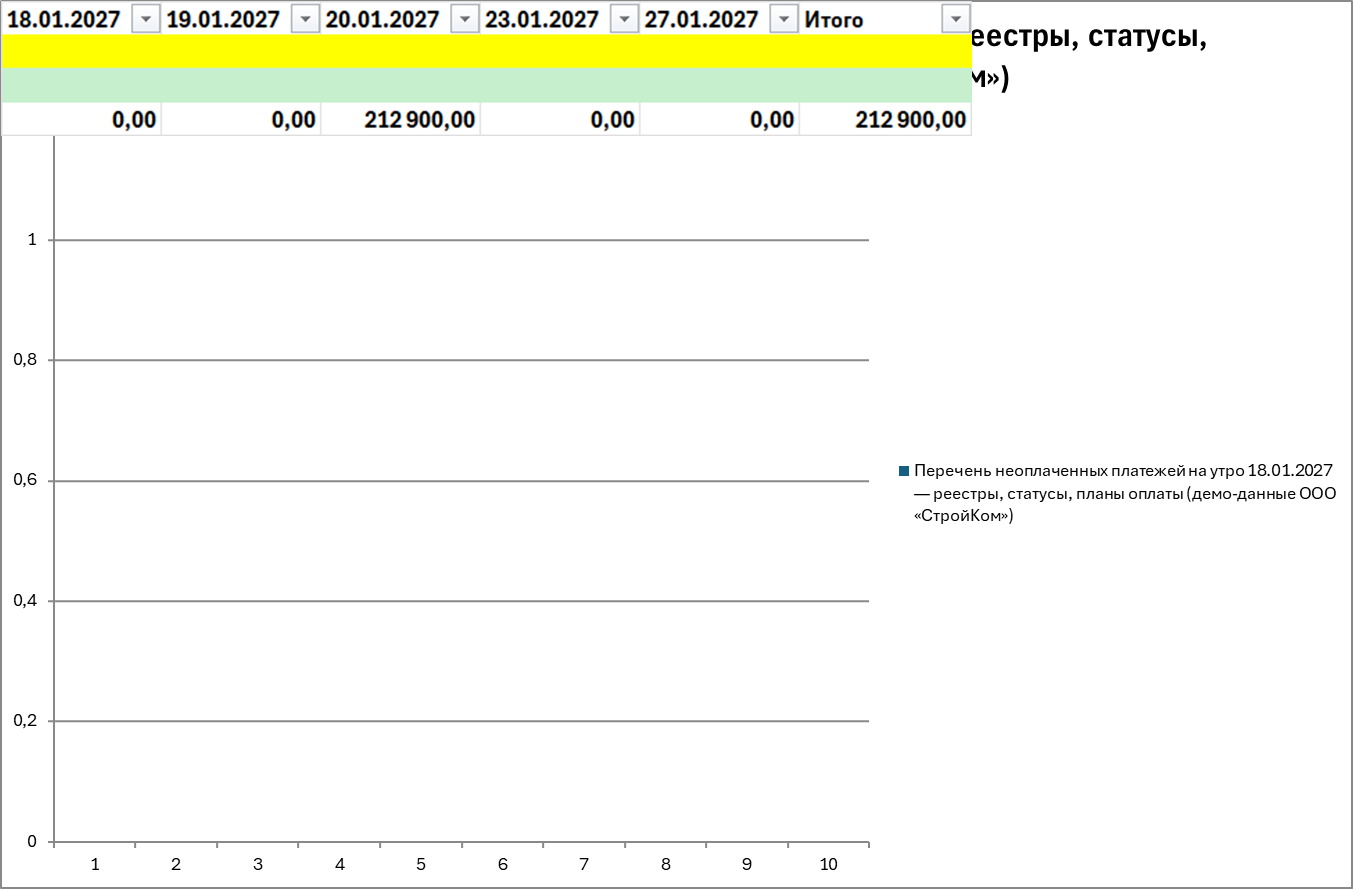
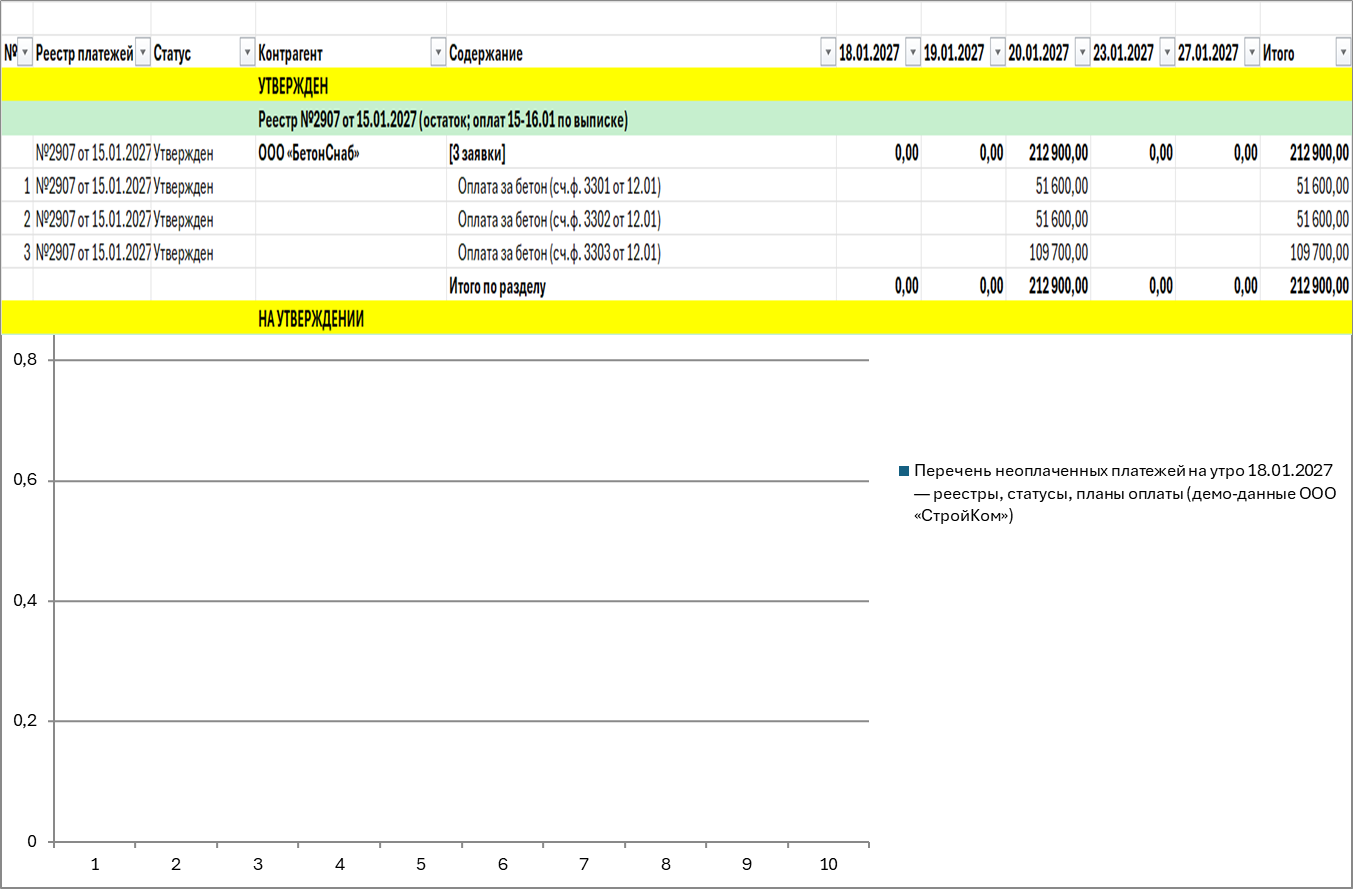
Скриншоты: шапка перечня с секцией УТВЕРЖДЕН вместо пустоватого кропа; README: MVP-перечень дополнен месячным конвейером БДР и демо-дашбордом

Changed region(s): [[0.0, 0.0, 1.0, 0.3948]]

diff --git a/README.md b/README.md
@@ -44,8 +44,10 @@
 
 Реализовано и стабильно работает:
 1. Ежедневный конвейер БДДС — более 20 рабочих дней подряд на реальных данных, расхождение с выпиской — 0;
-2. Конвейер БДР по ЦФО — месяцы июль–октябрь 2026 + свод квартала в форме БДР;
-3. Дашборд руководителя (9 месяцев 2026);
+   демонстрируется на синтетическом комплекте (`demo-data/` → `demo-output/unpaid-payments-register.xlsx`);
+2. Ежемесячный конвейер БДР: выгрузка 1С → разнос по правилам → матрица «статья × ЦФО»
+   с живыми формулами; в демо — январь 2027 (Σ = журналу после фильтра регламентных переносов, расхождение 0,00);
+3. Дашборд руководителя (демо-версия на вымышленных данных, открывается в браузере);
 4. Скилл для воспроизводимости главного сценария коллегами.
 
 В планах: бюджет 2027 на драйверах (пульт параметров → численность/ФОТ → сметы ЦФО → свод), ежемесячный анализ техники, публикация дашборда.
